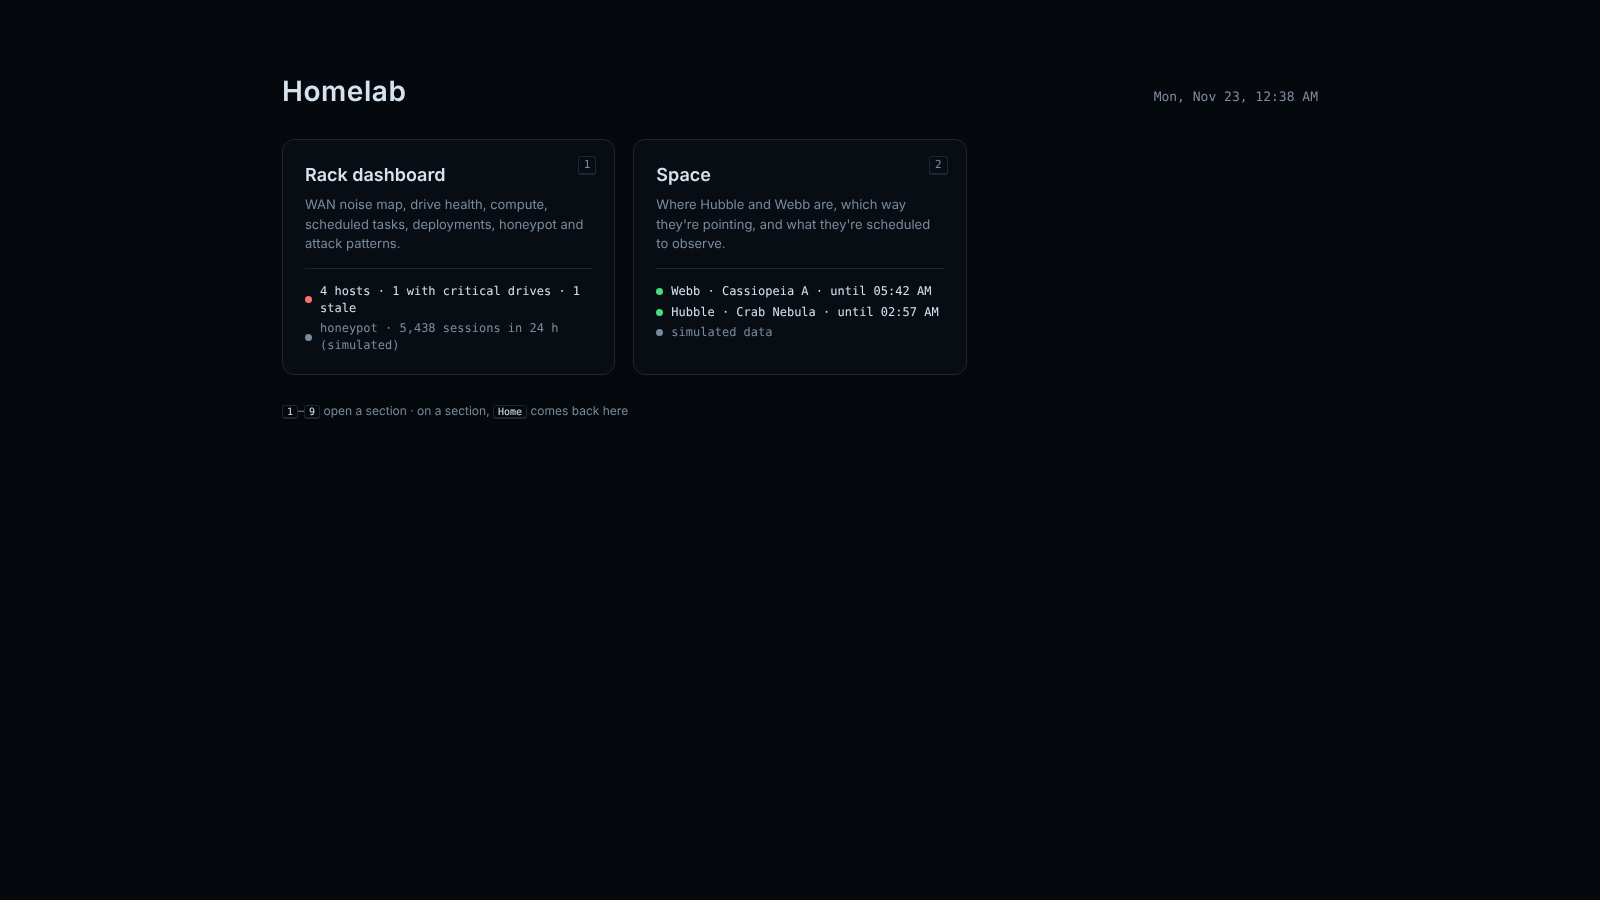
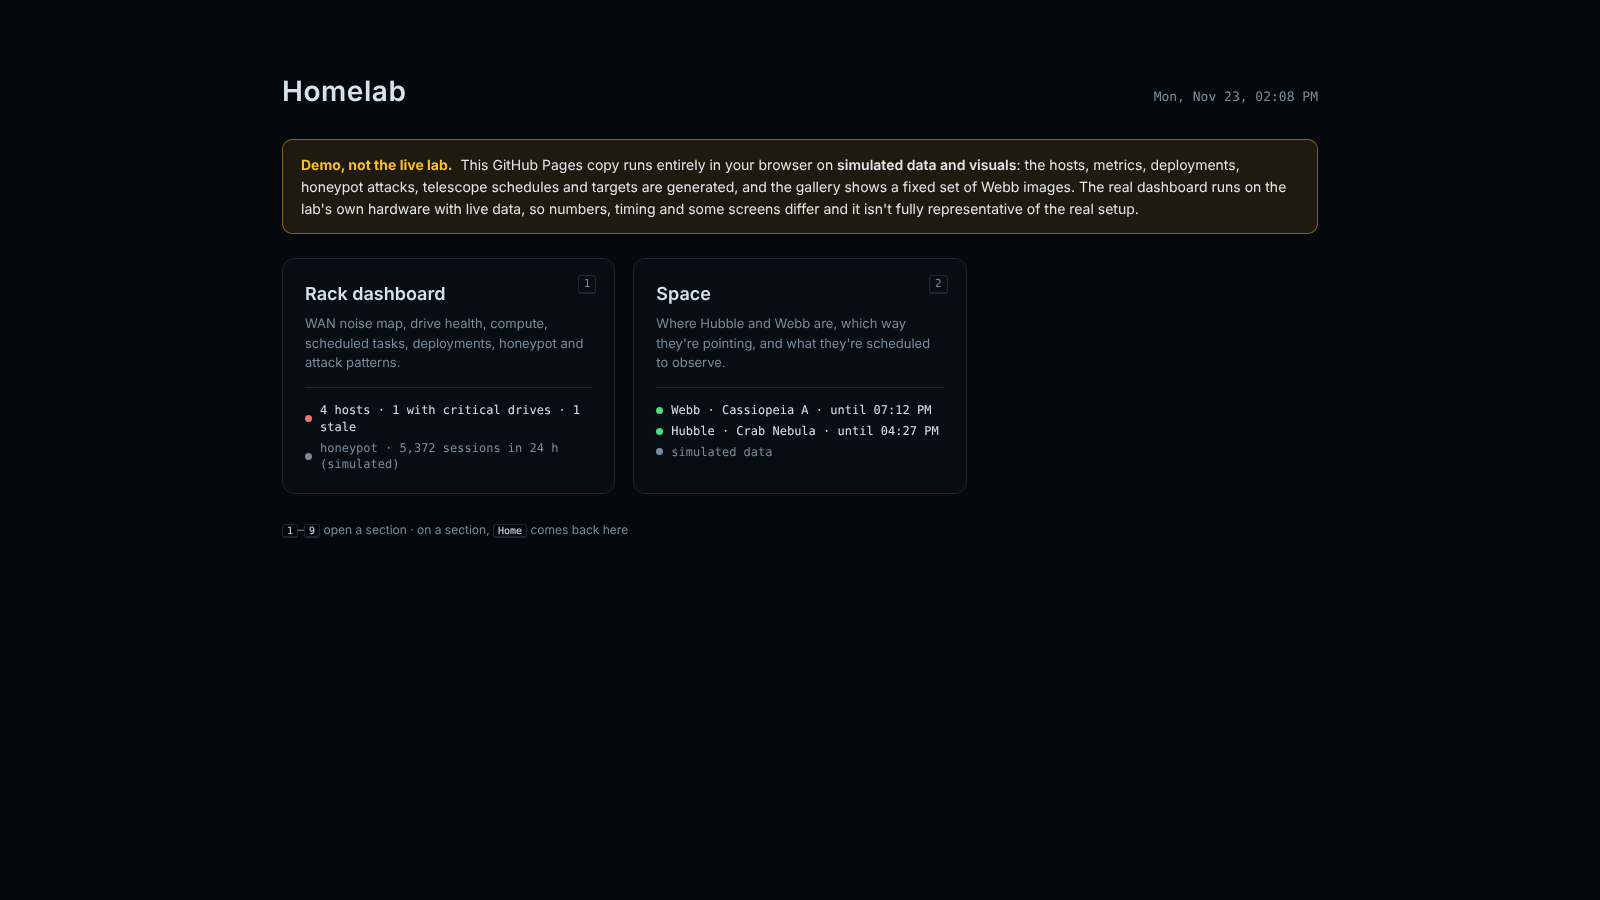
Export from homelab@1422bbe

diff --git a/dashboard/tools/demo-api.js b/dashboard/tools/demo-api.js
@@ -143,5 +143,23 @@
       .demo-badge a{color:#7dd3fc}.demo-badge kbd{font:11px ui-monospace,monospace;border:1px solid rgba(255,255,255,.2);border-radius:4px;padding:0 4px;margin:0 1px}`;
     document.head.appendChild(s);
     document.body.appendChild(b);
+
+    // On the home page, a plain notice under the title: this is not the real lab.
+    const home = document.querySelector('#home header');
+    if (home) {
+      const n = document.createElement('aside');
+      n.className = 'demo-notice';
+      n.setAttribute('role', 'note');
+      n.innerHTML = `<strong>Demo, not the live lab.</strong> This GitHub Pages copy runs entirely in your browser on
+        <b>simulated data and visuals</b>: the hosts, metrics, deployments, honeypot attacks, telescope schedules and targets
+        are generated, and the gallery shows a fixed set of Webb images. The real dashboard runs on the lab's own hardware
+        with live data, so numbers, timing and some screens differ and it isn't fully representative of the real setup.
+        ${repo ? `<a href="${repo}" target="_blank" rel="noopener">How the real setup works →</a>` : ''}`;
+      s.textContent += `.demo-notice{margin:0 0 24px;padding:14px 18px;border-radius:10px;border:1px solid rgba(251,191,36,.45);
+        background:rgba(251,191,36,.10);color:#e5e7eb;font:14px/1.55 system-ui,sans-serif}
+        .demo-notice strong{color:#fbbf24;margin-right:4px}.demo-notice b{font-weight:600}
+        .demo-notice a{color:#7dd3fc;white-space:nowrap;margin-left:4px}`;
+      home.after(n);
+    }
   });
 })();

diff --git a/dashboard/README.md b/dashboard/README.md
@@ -117,7 +117,7 @@ Health: **failed** if the last run failed or was aborted; **overdue** if it hasn
 
 ### Static demo (GitHub Pages)
 
-`python3 dashboard/tools/build_static_demo.py OUT_DIR` builds a backend-free copy of the dashboard. It's the real UI plus `demo-api.js`, which answers `api/*` from a snapshot of the collector's own demo data, replays the compute history every 10 s, and plays a rollout when *Deploy all* is pressed. The noise map simulates its traffic in the browser already. Used by the public showcase (see the top-level README). `?speed=5` plays it 5× faster; `dashboard/tools/record_demo.py` uses that to record the README's animated hero. `dashboard/tools/take_screenshots.py showcase/screenshots` retakes the showcase screenshots from the same demo (badge hidden). The demo gallery shows four real ESA/Webb Pictures of the Month kept in `static/space/gallery/demo/` (CC BY 4.0, credited; `space_gallery.DEMO_ITEMS`), so the demo never fetches anything.
+`python3 dashboard/tools/build_static_demo.py OUT_DIR` builds a backend-free copy of the dashboard. It's the real UI plus `demo-api.js`, which answers `api/*` from a snapshot of the collector's own demo data, replays the compute history every 10 s, and plays a rollout when *Deploy all* is pressed. The noise map simulates its traffic in the browser already. Used by the public showcase (see the top-level README). The shim also adds a corner badge on every page and, on the home page, a notice that the demo runs on simulated data and visuals and isn't fully representative of the real setup. `?speed=5` plays it 5× faster; `dashboard/tools/record_demo.py` uses that to record the README's animated hero. `dashboard/tools/take_screenshots.py showcase/screenshots` retakes the showcase screenshots from the same demo (badge hidden). The demo gallery shows four real ESA/Webb Pictures of the Month kept in `static/space/gallery/demo/` (CC BY 4.0, credited; `space_gallery.DEMO_ITEMS`), so the demo never fetches anything.
 
 ### Credential relay
 

diff --git a/README.md b/README.md
@@ -178,4 +178,4 @@ python3 dashboard/collector.py --demo    # then open http://localhost:8080
 
 This is a public export of my private homelab repo. Its `showcase/export.py` copies an allowlist of folders on every merge, and refuses to publish anything that looks like a secret: keys, tokens, public IPs, personal emails or machine names. History starts at the export; the private repo has the full PR-by-PR history. Built with [Claude Code](https://claude.com/claude-code) as a pair programmer: I set direction and constraints and reviewed and ran everything on real hardware; most of the code was written in that pairing.
 
-Exported from commit `97e5341` · [MIT License](LICENSE)
+Exported from commit `1422bbe` · [MIT License](LICENSE)
